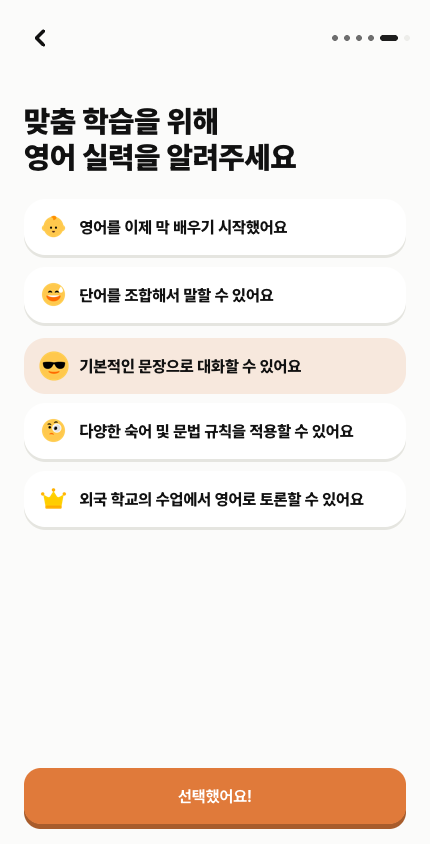
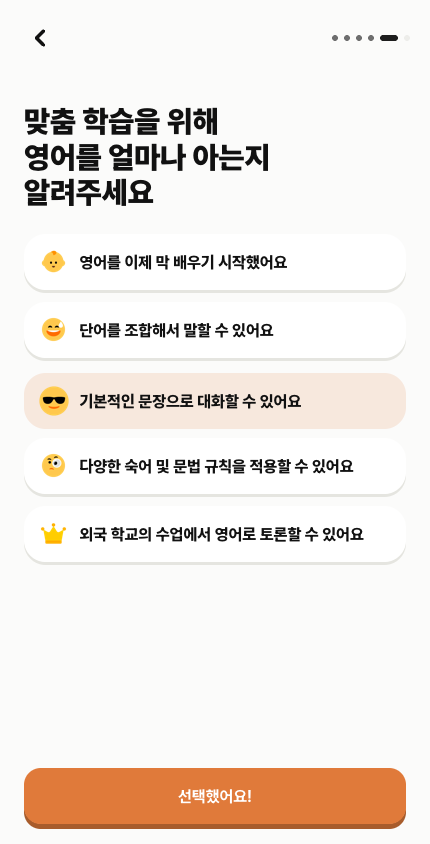
design(web): 영어 수준 헤드라인을 확정 문구로 되돌리고 어절 단위로 줄바꿈한다
"맞춤 학습을 위해 / 영어를 얼마나 아는지 알려주세요" — break-keep으로
음절 중간에 꺾여 글자가 홀로 떨어지는 일을 막는다. 캡처도 갱신

Changed region(s): [[0.0302, 0.154, 0.9674, 0.6777]]

diff --git a/apps/web/src/features/onboarding/ui/EnglishLevelGate.tsx b/apps/web/src/features/onboarding/ui/EnglishLevelGate.tsx
@@ -43,10 +43,10 @@ export const EnglishLevelGate = () => {
         paddingBottom: 'max(env(safe-area-inset-bottom), 20px)',
       }}
     >
-      <h1 className="pt-10 text-3xl leading-[1.18] font-black tracking-normal">
+      <h1 className="pt-10 text-3xl leading-[1.18] font-black tracking-normal break-keep">
         맞춤 학습을 위해
         <br />
-        영어 실력을 알려주세요
+        영어를 얼마나 아는지 알려주세요
       </h1>
 
       <div className="mt-8 flex min-h-0 flex-1 flex-col">

diff --git a/apps/web/src/features/onboarding/ui/steps/LevelStep.tsx b/apps/web/src/features/onboarding/ui/steps/LevelStep.tsx
@@ -11,10 +11,10 @@ export const LevelStep = ({
   onNext: (level: EnglishLevel) => void;
 }) => (
   <div className="flex min-h-0 flex-1 flex-col pt-7">
-    <h1 className="text-3xl leading-[1.18] font-black tracking-normal">
+    <h1 className="text-3xl leading-[1.18] font-black tracking-normal break-keep">
       맞춤 학습을 위해
       <br />
-      영어 실력을 알려주세요
+      영어를 얼마나 아는지 알려주세요
     </h1>
 
     <div className="mt-6 flex min-h-0 flex-1 flex-col">
